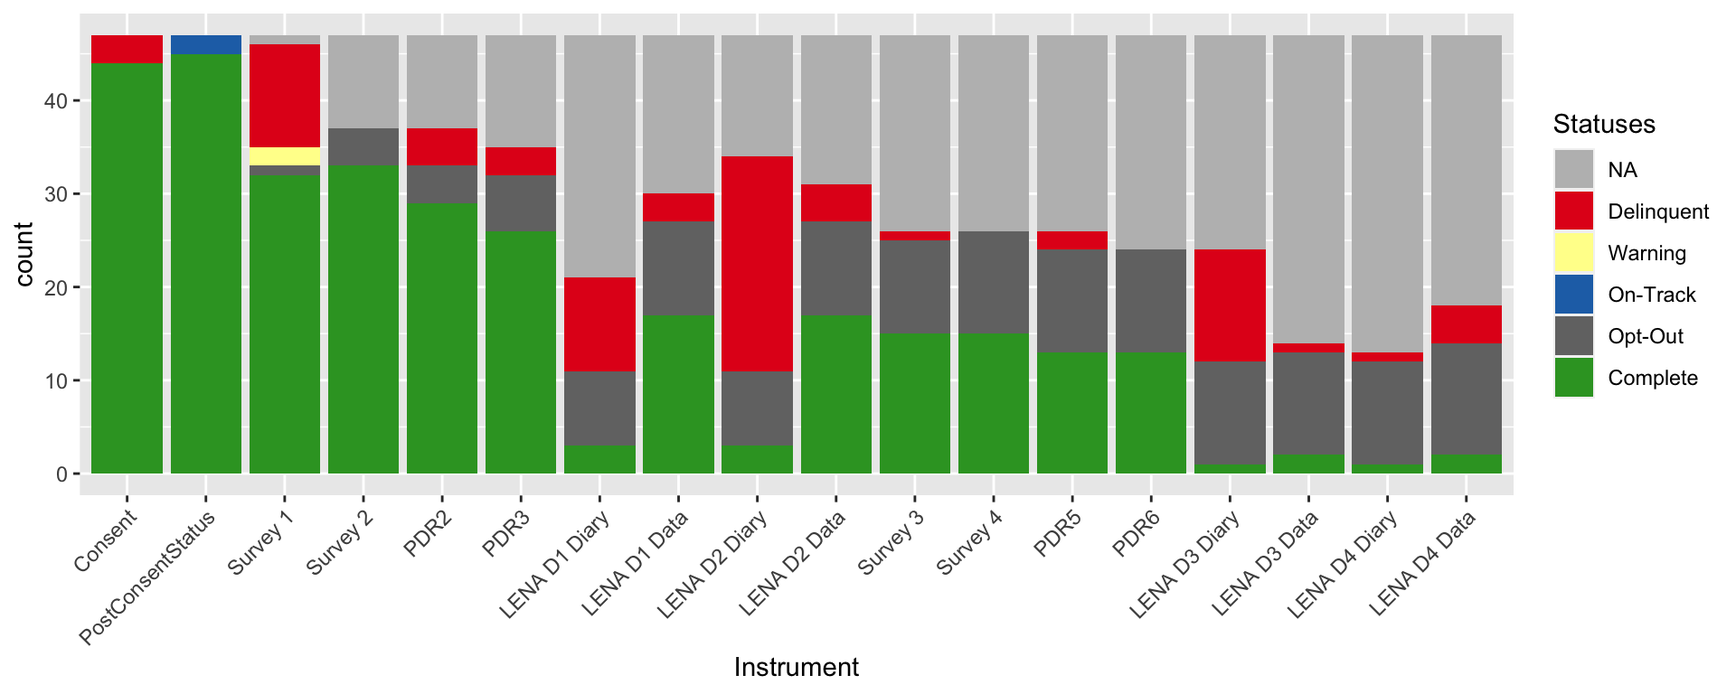
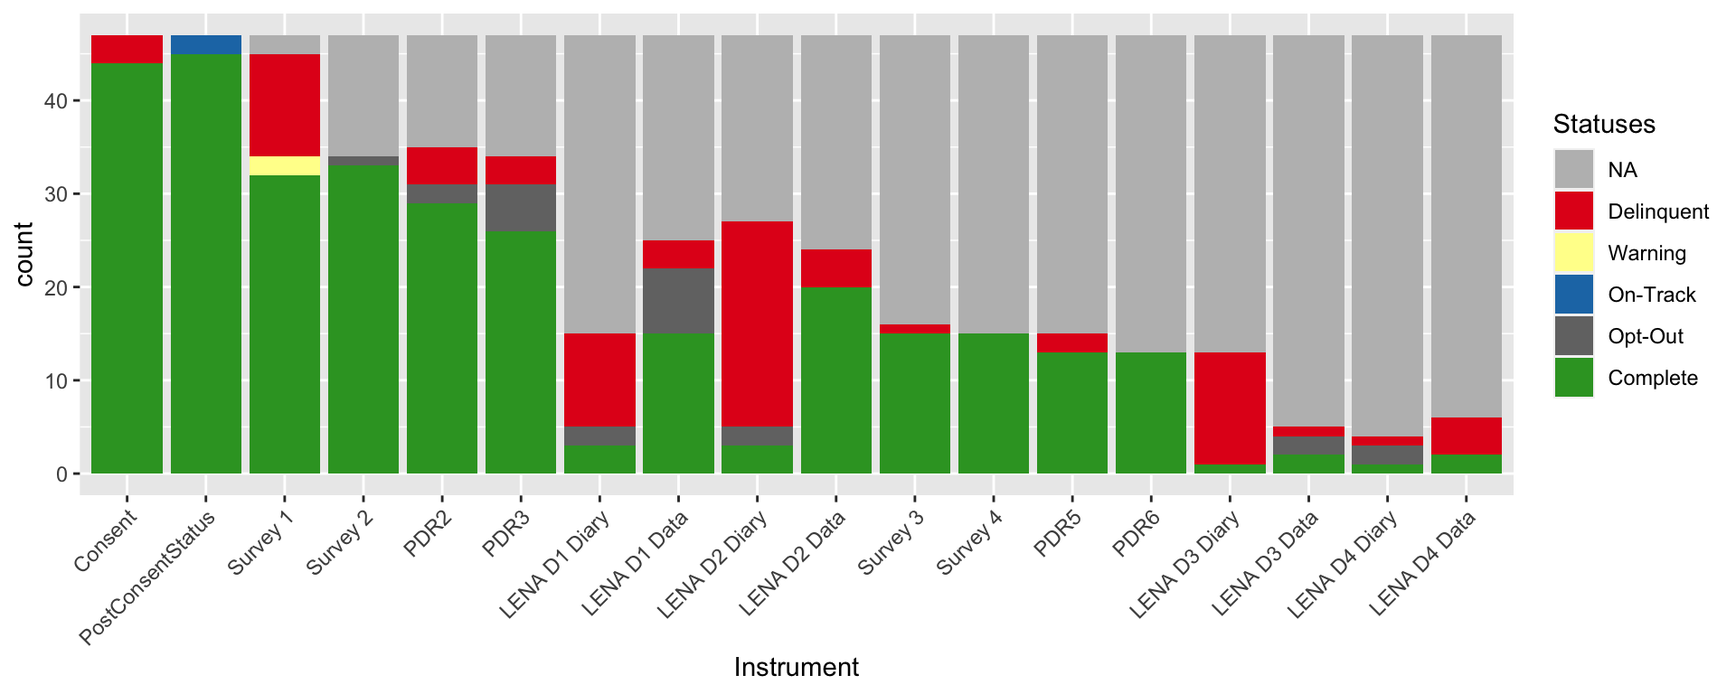
Update charts with current data--warning not valid

diff --git a/_site/reports.html b/_site/reports.html
@@ -398,8 +398,8 @@ $(document).ready(function () {
 
 </div>
 <center>
-<div id="htmlwidget-2e17466358a46d139971" style="width:960px;height:384px;" class="plotly html-widget"></div>
-<script type="application/json" data-for="htmlwidget-2e17466358a46d139971">{"x":{"data":[{"x":[1594210295,1595855440,1595947129,1596636699,1597147658,1597190400,1597276800,1597402867,1598436608,1598538979,1598541299,1598955066,1599570320,1600250194,1600255992,1600300800,1600355481,1600387200,1600863340,1601302221,1601566658,1602239005,1603368728,1603379955,1603670400,1603977413,1604491899,1604751373,1605089156,1605179257,1605721538,1605872792,1607040000,1607472000,1607644800,1607687486,1609891200,1609897301,1611187200,1611878400,1612396800,1612396800,1612396800,1611878400,1611187200,1609897301,1609891200,1607687486,1607644800,1607472000,1607040000,1605872792,1605721538,1605179257,1605089156,1604751373,1604491899,1603977413,1603670400,1603379955,1603368728,1602239005,1601566658,1601302221,1600863340,1600387200,1600355481,1600300800,1600255992,1600250194,1599570320,1598955066,1598541299,1598538979,1598436608,1597402867,1597276800,1597190400,1597147658,1596636699,1595947129,1595855440,1594210295,1594210295],"y":[0,0,0,0,0,0,0,0,0,0,0,0,0,0,0,0,0,0,0,0,0,0,0,0,0,0,0,0,0,0,0,0,0,0,0,0,0,0,0,0,0,0,42,41,40,39,38,37,36,35,34,33,32,31,30,29,28,27,26,25,24,23,22,21,20,19,18,17,16,15,14,13,12,11,10,9,8,6,5,4,3,2,1,0],"text":["InformedConsent: 2020-07-08 19:11:35<br />Cumulative:  1","InformedConsent: 2020-07-27 20:10:40<br />Cumulative:  2","InformedConsent: 2020-07-28 21:38:49<br />Cumulative:  3","InformedConsent: 2020-08-05 21:11:39<br />Cumulative:  4","InformedConsent: 2020-08-11 19:07:38<br />Cumulative:  5","InformedConsent: 2020-08-12 07:00:00<br />Cumulative:  6","InformedConsent: 2020-08-13 07:00:00<br />Cumulative:  8","InformedConsent: 2020-08-14 18:01:07<br />Cumulative:  9","InformedConsent: 2020-08-26 17:10:08<br />Cumulative: 10","InformedConsent: 2020-08-27 21:36:19<br />Cumulative: 11","InformedConsent: 2020-08-27 22:14:59<br />Cumulative: 12","InformedConsent: 2020-09-01 17:11:06<br />Cumulative: 13","InformedConsent: 2020-09-08 20:05:20<br />Cumulative: 14","InformedConsent: 2020-09-16 16:56:34<br />Cumulative: 15","InformedConsent: 2020-09-16 18:33:12<br />Cumulative: 16","InformedConsent: 2020-09-17 07:00:00<br />Cumulative: 17","InformedConsent: 2020-09-17 22:11:21<br />Cumulative: 18","InformedConsent: 2020-09-18 07:00:00<br />Cumulative: 19","InformedConsent: 2020-09-23 19:15:40<br />Cumulative: 20","InformedConsent: 2020-09-28 21:10:21<br />Cumulative: 21","InformedConsent: 2020-10-01 22:37:38<br />Cumulative: 22","InformedConsent: 2020-10-09 17:23:25<br />Cumulative: 23","InformedConsent: 2020-10-22 19:12:08<br />Cumulative: 24","InformedConsent: 2020-10-22 22:19:15<br />Cumulative: 25","InformedConsent: 2020-10-26 07:00:00<br />Cumulative: 26","InformedConsent: 2020-10-29 20:16:53<br />Cumulative: 27","InformedConsent: 2020-11-04 20:11:39<br />Cumulative: 28","InformedConsent: 2020-11-07 20:16:13<br />Cumulative: 29","InformedConsent: 2020-11-11 18:05:56<br />Cumulative: 30","InformedConsent: 2020-11-12 19:07:37<br />Cumulative: 31","InformedConsent: 2020-11-19 01:45:38<br />Cumulative: 32","InformedConsent: 2020-11-20 19:46:32<br />Cumulative: 33","InformedConsent: 2020-12-04 08:00:00<br />Cumulative: 34","InformedConsent: 2020-12-09 08:00:00<br />Cumulative: 35","InformedConsent: 2020-12-11 08:00:00<br />Cumulative: 36","InformedConsent: 2020-12-11 19:51:26<br />Cumulative: 37","InformedConsent: 2021-01-06 08:00:00<br />Cumulative: 38","InformedConsent: 2021-01-06 09:41:41<br />Cumulative: 39","InformedConsent: 2021-01-21 08:00:00<br />Cumulative: 40","InformedConsent: 2021-01-29 08:00:00<br />Cumulative: 41","InformedConsent: 2021-02-04 08:00:00<br />Cumulative: 42","InformedConsent: 2021-02-04 08:00:00<br />Cumulative: 42","InformedConsent: 2021-02-04 08:00:00<br />Cumulative: 42","InformedConsent: 2021-01-29 08:00:00<br />Cumulative: 41","InformedConsent: 2021-01-21 08:00:00<br />Cumulative: 40","InformedConsent: 2021-01-06 09:41:41<br />Cumulative: 39","InformedConsent: 2021-01-06 08:00:00<br />Cumulative: 38","InformedConsent: 2020-12-11 19:51:26<br />Cumulative: 37","InformedConsent: 2020-12-11 08:00:00<br />Cumulative: 36","InformedConsent: 2020-12-09 08:00:00<br />Cumulative: 35","InformedConsent: 2020-12-04 08:00:00<br />Cumulative: 34","InformedConsent: 2020-11-20 19:46:32<br />Cumulative: 33","InformedConsent: 2020-11-19 01:45:38<br />Cumulative: 32","InformedConsent: 2020-11-12 19:07:37<br />Cumulative: 31","InformedConsent: 2020-11-11 18:05:56<br />Cumulative: 30","InformedConsent: 2020-11-07 20:16:13<br />Cumulative: 29","InformedConsent: 2020-11-04 20:11:39<br />Cumulative: 28","InformedConsent: 2020-10-29 20:16:53<br />Cumulative: 27","InformedConsent: 2020-10-26 07:00:00<br />Cumulative: 26","InformedConsent: 2020-10-22 22:19:15<br />Cumulative: 25","InformedConsent: 2020-10-22 19:12:08<br />Cumulative: 24","InformedConsent: 2020-10-09 17:23:25<br />Cumulative: 23","InformedConsent: 2020-10-01 22:37:38<br />Cumulative: 22","InformedConsent: 2020-09-28 21:10:21<br />Cumulative: 21","InformedConsent: 2020-09-23 19:15:40<br />Cumulative: 20","InformedConsent: 2020-09-18 07:00:00<br />Cumulative: 19","InformedConsent: 2020-09-17 22:11:21<br />Cumulative: 18","InformedConsent: 2020-09-17 07:00:00<br />Cumulative: 17","InformedConsent: 2020-09-16 18:33:12<br />Cumulative: 16","InformedConsent: 2020-09-16 16:56:34<br />Cumulative: 15","InformedConsent: 2020-09-08 20:05:20<br />Cumulative: 14","InformedConsent: 2020-09-01 17:11:06<br />Cumulative: 13","InformedConsent: 2020-08-27 22:14:59<br />Cumulative: 12","InformedConsent: 2020-08-27 21:36:19<br />Cumulative: 11","InformedConsent: 2020-08-26 17:10:08<br />Cumulative: 10","InformedConsent: 2020-08-14 18:01:07<br />Cumulative:  9","InformedConsent: 2020-08-13 07:00:00<br />Cumulative:  8","InformedConsent: 2020-08-12 07:00:00<br />Cumulative:  6","InformedConsent: 2020-08-11 19:07:38<br />Cumulative:  5","InformedConsent: 2020-08-05 21:11:39<br />Cumulative:  4","InformedConsent: 2020-07-28 21:38:49<br />Cumulative:  3","InformedConsent: 2020-07-27 20:10:40<br />Cumulative:  2","InformedConsent: 2020-07-08 19:11:35<br />Cumulative:  1","InformedConsent: 2020-07-08 19:11:35<br />Cumulative:  1"],"type":"scatter","mode":"lines","line":{"width":1.88976377952756,"color":"transparent","dash":"solid"},"fill":"toself","fillcolor":"rgba(105,179,162,0.5)","hoveron":"points","showlegend":false,"xaxis":"x","yaxis":"y","hoverinfo":"text","frame":null},{"x":[1594210295,1595855440,1595947129,1596636699,1597147658,1597190400,1597276800,1597402867,1598436608,1598538979,1598541299,1598955066,1599570320,1600250194,1600255992,1600300800,1600355481,1600387200,1600863340,1601302221,1601566658,1602239005,1603368728,1603379955,1603670400,1603977413,1604491899,1604751373,1605089156,1605179257,1605721538,1605872792,1607040000,1607472000,1607644800,1607687486,1609891200,1609897301,1611187200,1611878400,1612396800,null],"y":[1,2,3,4,5,6,8,9,10,11,12,13,14,15,16,17,18,19,20,21,22,23,24,25,26,27,28,29,30,31,32,33,34,35,36,37,38,39,40,41,42,48],"text":["InformedConsent: 2020-07-08 12:11:35<br />Cumulative:  1","InformedConsent: 2020-07-27 13:10:40<br />Cumulative:  2","InformedConsent: 2020-07-28 14:38:49<br />Cumulative:  3","InformedConsent: 2020-08-05 14:11:39<br />Cumulative:  4","InformedConsent: 2020-08-11 12:07:38<br />Cumulative:  5","InformedConsent: 2020-08-12 00:00:00<br />Cumulative:  6","InformedConsent: 2020-08-13 00:00:00<br />Cumulative:  8","InformedConsent: 2020-08-14 11:01:07<br />Cumulative:  9","InformedConsent: 2020-08-26 10:10:08<br />Cumulative: 10","InformedConsent: 2020-08-27 14:36:19<br />Cumulative: 11","InformedConsent: 2020-08-27 15:14:59<br />Cumulative: 12","InformedConsent: 2020-09-01 10:11:06<br />Cumulative: 13","InformedConsent: 2020-09-08 13:05:20<br />Cumulative: 14","InformedConsent: 2020-09-16 09:56:34<br />Cumulative: 15","InformedConsent: 2020-09-16 11:33:12<br />Cumulative: 16","InformedConsent: 2020-09-17 00:00:00<br />Cumulative: 17","InformedConsent: 2020-09-17 15:11:21<br />Cumulative: 18","InformedConsent: 2020-09-18 00:00:00<br />Cumulative: 19","InformedConsent: 2020-09-23 12:15:40<br />Cumulative: 20","InformedConsent: 2020-09-28 14:10:21<br />Cumulative: 21","InformedConsent: 2020-10-01 15:37:38<br />Cumulative: 22","InformedConsent: 2020-10-09 10:23:25<br />Cumulative: 23","InformedConsent: 2020-10-22 12:12:08<br />Cumulative: 24","InformedConsent: 2020-10-22 15:19:15<br />Cumulative: 25","InformedConsent: 2020-10-26 00:00:00<br />Cumulative: 26","InformedConsent: 2020-10-29 13:16:53<br />Cumulative: 27","InformedConsent: 2020-11-04 12:11:39<br />Cumulative: 28","InformedConsent: 2020-11-07 12:16:13<br />Cumulative: 29","InformedConsent: 2020-11-11 10:05:56<br />Cumulative: 30","InformedConsent: 2020-11-12 11:07:37<br />Cumulative: 31","InformedConsent: 2020-11-18 17:45:38<br />Cumulative: 32","InformedConsent: 2020-11-20 11:46:32<br />Cumulative: 33","InformedConsent: 2020-12-04 00:00:00<br />Cumulative: 34","InformedConsent: 2020-12-09 00:00:00<br />Cumulative: 35","InformedConsent: 2020-12-11 00:00:00<br />Cumulative: 36","InformedConsent: 2020-12-11 11:51:26<br />Cumulative: 37","InformedConsent: 2021-01-06 00:00:00<br />Cumulative: 38","InformedConsent: 2021-01-06 01:41:41<br />Cumulative: 39","InformedConsent: 2021-01-21 00:00:00<br />Cumulative: 40","InformedConsent: 2021-01-29 00:00:00<br />Cumulative: 41","InformedConsent: 2021-02-04 00:00:00<br />Cumulative: 42","InformedConsent: NA<br />Cumulative: 48"],"type":"scatter","mode":"lines","line":{"width":1.88976377952756,"color":"rgba(105,179,162,1)","dash":"solid"},"hoveron":"points","showlegend":false,"xaxis":"x","yaxis":"y","hoverinfo":"text","frame":null}],"layout":{"margin":{"t":65.813200498132,"r":39.8505603985056,"b":80.8634288086343,"l":70.9007887090079},"font":{"color":"rgba(0,0,0,1)","family":"Arial Narrow","size":15.2760481527605},"xaxis":{"domain":[0,1],"automargin":true,"type":"linear","autorange":false,"range":[1593300969.75,1613306125.25],"tickmode":"array","ticktext":["Jul","Oct","Jan"],"tickvals":[1593561600,1601510400,1609459200],"categoryorder":"array","categoryarray":["Jul","Oct","Jan"],"nticks":null,"ticks":"","tickcolor":null,"ticklen":3.81901203819012,"tickwidth":0,"showticklabels":true,"tickfont":{"color":"rgba(77,77,77,1)","family":"Arial Narrow","size":15.2760481527605},"tickangle":-0,"showline":false,"linecolor":null,"linewidth":0,"showgrid":true,"gridcolor":"rgba(204,204,204,1)","gridwidth":0.265670402656704,"zeroline":false,"anchor":"y","title":{"text":"Time","font":{"color":"rgba(0,0,0,1)","family":"Arial Narrow","size":11.9551681195517}},"hoverformat":".2f"},"yaxis":{"domain":[0,1],"automargin":true,"type":"linear","autorange":false,"range":[-2.4,50.4],"tickmode":"array","ticktext":["0","10","20","30","40","50"],"tickvals":[0,10,20,30,40,50],"categoryorder":"array","categoryarray":["0","10","20","30","40","50"],"nticks":null,"ticks":"","tickcolor":null,"ticklen":3.81901203819012,"tickwidth":0,"showticklabels":true,"tickfont":{"color":"rgba(77,77,77,1)","family":"Arial Narrow","size":15.2760481527605},"tickangle":-0,"showline":false,"linecolor":null,"linewidth":0,"showgrid":true,"gridcolor":"rgba(204,204,204,1)","gridwidth":0.265670402656704,"zeroline":false,"anchor":"x","title":{"text":"Dyad Count","font":{"color":"rgba(0,0,0,1)","family":"Arial Narrow","size":11.9551681195517}},"hoverformat":".2f"},"shapes":[{"type":"rect","fillcolor":null,"line":{"color":null,"width":0,"linetype":[]},"yref":"paper","xref":"paper","x0":0,"x1":1,"y0":0,"y1":1}],"showlegend":false,"legend":{"bgcolor":null,"bordercolor":null,"borderwidth":0,"font":{"color":"rgba(0,0,0,1)","family":"Arial Narrow","size":12.2208385222084}},"hovermode":"closest","barmode":"relative"},"config":{"doubleClick":"reset","showSendToCloud":false},"source":"A","attrs":{"912116bcb142":{"x":{},"y":{},"type":"scatter"},"91213e196fb7":{"x":{},"y":{}}},"cur_data":"912116bcb142","visdat":{"912116bcb142":["function (y) ","x"],"91213e196fb7":["function (y) ","x"]},"highlight":{"on":"plotly_click","persistent":false,"dynamic":false,"selectize":false,"opacityDim":0.2,"selected":{"opacity":1},"debounce":0},"shinyEvents":["plotly_hover","plotly_click","plotly_selected","plotly_relayout","plotly_brushed","plotly_brushing","plotly_clickannotation","plotly_doubleclick","plotly_deselect","plotly_afterplot","plotly_sunburstclick"],"base_url":"https://plot.ly"},"evals":[],"jsHooks":[]}</script><img src="reports_files/figure-html/SEAL%20Conditions%20Plot-2.png" width="960" />
+<div id="htmlwidget-64dbf7ed44db75815197" style="width:960px;height:384px;" class="plotly html-widget"></div>
+<script type="application/json" data-for="htmlwidget-64dbf7ed44db75815197">{"x":{"data":[{"x":[1594210295,1595855440,1595947129,1596636699,1597147658,1597190400,1597276800,1597402867,1598436608,1598538979,1598541299,1598955066,1599570320,1600250194,1600255992,1600300800,1600355481,1600387200,1600863340,1601302221,1601566658,1602239005,1603368728,1603379955,1603670400,1603977413,1604491899,1604751373,1605089156,1605179257,1605721538,1605872792,1607040000,1607472000,1607644800,1607687486,1609891200,1609897301,1611187200,1611878400,1612396800,1612396800,1612396800,1611878400,1611187200,1609897301,1609891200,1607687486,1607644800,1607472000,1607040000,1605872792,1605721538,1605179257,1605089156,1604751373,1604491899,1603977413,1603670400,1603379955,1603368728,1602239005,1601566658,1601302221,1600863340,1600387200,1600355481,1600300800,1600255992,1600250194,1599570320,1598955066,1598541299,1598538979,1598436608,1597402867,1597276800,1597190400,1597147658,1596636699,1595947129,1595855440,1594210295,1594210295],"y":[0,0,0,0,0,0,0,0,0,0,0,0,0,0,0,0,0,0,0,0,0,0,0,0,0,0,0,0,0,0,0,0,0,0,0,0,0,0,0,0,0,0,42,41,40,39,38,37,36,35,34,33,32,31,30,29,28,27,26,25,24,23,22,21,20,19,18,17,16,15,14,13,12,11,10,9,8,6,5,4,3,2,1,0],"text":["InformedConsent: 2020-07-08 19:11:35<br />Cumulative:  1","InformedConsent: 2020-07-27 20:10:40<br />Cumulative:  2","InformedConsent: 2020-07-28 21:38:49<br />Cumulative:  3","InformedConsent: 2020-08-05 21:11:39<br />Cumulative:  4","InformedConsent: 2020-08-11 19:07:38<br />Cumulative:  5","InformedConsent: 2020-08-12 07:00:00<br />Cumulative:  6","InformedConsent: 2020-08-13 07:00:00<br />Cumulative:  8","InformedConsent: 2020-08-14 18:01:07<br />Cumulative:  9","InformedConsent: 2020-08-26 17:10:08<br />Cumulative: 10","InformedConsent: 2020-08-27 21:36:19<br />Cumulative: 11","InformedConsent: 2020-08-27 22:14:59<br />Cumulative: 12","InformedConsent: 2020-09-01 17:11:06<br />Cumulative: 13","InformedConsent: 2020-09-08 20:05:20<br />Cumulative: 14","InformedConsent: 2020-09-16 16:56:34<br />Cumulative: 15","InformedConsent: 2020-09-16 18:33:12<br />Cumulative: 16","InformedConsent: 2020-09-17 07:00:00<br />Cumulative: 17","InformedConsent: 2020-09-17 22:11:21<br />Cumulative: 18","InformedConsent: 2020-09-18 07:00:00<br />Cumulative: 19","InformedConsent: 2020-09-23 19:15:40<br />Cumulative: 20","InformedConsent: 2020-09-28 21:10:21<br />Cumulative: 21","InformedConsent: 2020-10-01 22:37:38<br />Cumulative: 22","InformedConsent: 2020-10-09 17:23:25<br />Cumulative: 23","InformedConsent: 2020-10-22 19:12:08<br />Cumulative: 24","InformedConsent: 2020-10-22 22:19:15<br />Cumulative: 25","InformedConsent: 2020-10-26 07:00:00<br />Cumulative: 26","InformedConsent: 2020-10-29 20:16:53<br />Cumulative: 27","InformedConsent: 2020-11-04 20:11:39<br />Cumulative: 28","InformedConsent: 2020-11-07 20:16:13<br />Cumulative: 29","InformedConsent: 2020-11-11 18:05:56<br />Cumulative: 30","InformedConsent: 2020-11-12 19:07:37<br />Cumulative: 31","InformedConsent: 2020-11-19 01:45:38<br />Cumulative: 32","InformedConsent: 2020-11-20 19:46:32<br />Cumulative: 33","InformedConsent: 2020-12-04 08:00:00<br />Cumulative: 34","InformedConsent: 2020-12-09 08:00:00<br />Cumulative: 35","InformedConsent: 2020-12-11 08:00:00<br />Cumulative: 36","InformedConsent: 2020-12-11 19:51:26<br />Cumulative: 37","InformedConsent: 2021-01-06 08:00:00<br />Cumulative: 38","InformedConsent: 2021-01-06 09:41:41<br />Cumulative: 39","InformedConsent: 2021-01-21 08:00:00<br />Cumulative: 40","InformedConsent: 2021-01-29 08:00:00<br />Cumulative: 41","InformedConsent: 2021-02-04 08:00:00<br />Cumulative: 42","InformedConsent: 2021-02-04 08:00:00<br />Cumulative: 42","InformedConsent: 2021-02-04 08:00:00<br />Cumulative: 42","InformedConsent: 2021-01-29 08:00:00<br />Cumulative: 41","InformedConsent: 2021-01-21 08:00:00<br />Cumulative: 40","InformedConsent: 2021-01-06 09:41:41<br />Cumulative: 39","InformedConsent: 2021-01-06 08:00:00<br />Cumulative: 38","InformedConsent: 2020-12-11 19:51:26<br />Cumulative: 37","InformedConsent: 2020-12-11 08:00:00<br />Cumulative: 36","InformedConsent: 2020-12-09 08:00:00<br />Cumulative: 35","InformedConsent: 2020-12-04 08:00:00<br />Cumulative: 34","InformedConsent: 2020-11-20 19:46:32<br />Cumulative: 33","InformedConsent: 2020-11-19 01:45:38<br />Cumulative: 32","InformedConsent: 2020-11-12 19:07:37<br />Cumulative: 31","InformedConsent: 2020-11-11 18:05:56<br />Cumulative: 30","InformedConsent: 2020-11-07 20:16:13<br />Cumulative: 29","InformedConsent: 2020-11-04 20:11:39<br />Cumulative: 28","InformedConsent: 2020-10-29 20:16:53<br />Cumulative: 27","InformedConsent: 2020-10-26 07:00:00<br />Cumulative: 26","InformedConsent: 2020-10-22 22:19:15<br />Cumulative: 25","InformedConsent: 2020-10-22 19:12:08<br />Cumulative: 24","InformedConsent: 2020-10-09 17:23:25<br />Cumulative: 23","InformedConsent: 2020-10-01 22:37:38<br />Cumulative: 22","InformedConsent: 2020-09-28 21:10:21<br />Cumulative: 21","InformedConsent: 2020-09-23 19:15:40<br />Cumulative: 20","InformedConsent: 2020-09-18 07:00:00<br />Cumulative: 19","InformedConsent: 2020-09-17 22:11:21<br />Cumulative: 18","InformedConsent: 2020-09-17 07:00:00<br />Cumulative: 17","InformedConsent: 2020-09-16 18:33:12<br />Cumulative: 16","InformedConsent: 2020-09-16 16:56:34<br />Cumulative: 15","InformedConsent: 2020-09-08 20:05:20<br />Cumulative: 14","InformedConsent: 2020-09-01 17:11:06<br />Cumulative: 13","InformedConsent: 2020-08-27 22:14:59<br />Cumulative: 12","InformedConsent: 2020-08-27 21:36:19<br />Cumulative: 11","InformedConsent: 2020-08-26 17:10:08<br />Cumulative: 10","InformedConsent: 2020-08-14 18:01:07<br />Cumulative:  9","InformedConsent: 2020-08-13 07:00:00<br />Cumulative:  8","InformedConsent: 2020-08-12 07:00:00<br />Cumulative:  6","InformedConsent: 2020-08-11 19:07:38<br />Cumulative:  5","InformedConsent: 2020-08-05 21:11:39<br />Cumulative:  4","InformedConsent: 2020-07-28 21:38:49<br />Cumulative:  3","InformedConsent: 2020-07-27 20:10:40<br />Cumulative:  2","InformedConsent: 2020-07-08 19:11:35<br />Cumulative:  1","InformedConsent: 2020-07-08 19:11:35<br />Cumulative:  1"],"type":"scatter","mode":"lines","line":{"width":1.88976377952756,"color":"transparent","dash":"solid"},"fill":"toself","fillcolor":"rgba(105,179,162,0.5)","hoveron":"points","showlegend":false,"xaxis":"x","yaxis":"y","hoverinfo":"text","frame":null},{"x":[1594210295,1595855440,1595947129,1596636699,1597147658,1597190400,1597276800,1597402867,1598436608,1598538979,1598541299,1598955066,1599570320,1600250194,1600255992,1600300800,1600355481,1600387200,1600863340,1601302221,1601566658,1602239005,1603368728,1603379955,1603670400,1603977413,1604491899,1604751373,1605089156,1605179257,1605721538,1605872792,1607040000,1607472000,1607644800,1607687486,1609891200,1609897301,1611187200,1611878400,1612396800,null],"y":[1,2,3,4,5,6,8,9,10,11,12,13,14,15,16,17,18,19,20,21,22,23,24,25,26,27,28,29,30,31,32,33,34,35,36,37,38,39,40,41,42,48],"text":["InformedConsent: 2020-07-08 12:11:35<br />Cumulative:  1","InformedConsent: 2020-07-27 13:10:40<br />Cumulative:  2","InformedConsent: 2020-07-28 14:38:49<br />Cumulative:  3","InformedConsent: 2020-08-05 14:11:39<br />Cumulative:  4","InformedConsent: 2020-08-11 12:07:38<br />Cumulative:  5","InformedConsent: 2020-08-12 00:00:00<br />Cumulative:  6","InformedConsent: 2020-08-13 00:00:00<br />Cumulative:  8","InformedConsent: 2020-08-14 11:01:07<br />Cumulative:  9","InformedConsent: 2020-08-26 10:10:08<br />Cumulative: 10","InformedConsent: 2020-08-27 14:36:19<br />Cumulative: 11","InformedConsent: 2020-08-27 15:14:59<br />Cumulative: 12","InformedConsent: 2020-09-01 10:11:06<br />Cumulative: 13","InformedConsent: 2020-09-08 13:05:20<br />Cumulative: 14","InformedConsent: 2020-09-16 09:56:34<br />Cumulative: 15","InformedConsent: 2020-09-16 11:33:12<br />Cumulative: 16","InformedConsent: 2020-09-17 00:00:00<br />Cumulative: 17","InformedConsent: 2020-09-17 15:11:21<br />Cumulative: 18","InformedConsent: 2020-09-18 00:00:00<br />Cumulative: 19","InformedConsent: 2020-09-23 12:15:40<br />Cumulative: 20","InformedConsent: 2020-09-28 14:10:21<br />Cumulative: 21","InformedConsent: 2020-10-01 15:37:38<br />Cumulative: 22","InformedConsent: 2020-10-09 10:23:25<br />Cumulative: 23","InformedConsent: 2020-10-22 12:12:08<br />Cumulative: 24","InformedConsent: 2020-10-22 15:19:15<br />Cumulative: 25","InformedConsent: 2020-10-26 00:00:00<br />Cumulative: 26","InformedConsent: 2020-10-29 13:16:53<br />Cumulative: 27","InformedConsent: 2020-11-04 12:11:39<br />Cumulative: 28","InformedConsent: 2020-11-07 12:16:13<br />Cumulative: 29","InformedConsent: 2020-11-11 10:05:56<br />Cumulative: 30","InformedConsent: 2020-11-12 11:07:37<br />Cumulative: 31","InformedConsent: 2020-11-18 17:45:38<br />Cumulative: 32","InformedConsent: 2020-11-20 11:46:32<br />Cumulative: 33","InformedConsent: 2020-12-04 00:00:00<br />Cumulative: 34","InformedConsent: 2020-12-09 00:00:00<br />Cumulative: 35","InformedConsent: 2020-12-11 00:00:00<br />Cumulative: 36","InformedConsent: 2020-12-11 11:51:26<br />Cumulative: 37","InformedConsent: 2021-01-06 00:00:00<br />Cumulative: 38","InformedConsent: 2021-01-06 01:41:41<br />Cumulative: 39","InformedConsent: 2021-01-21 00:00:00<br />Cumulative: 40","InformedConsent: 2021-01-29 00:00:00<br />Cumulative: 41","InformedConsent: 2021-02-04 00:00:00<br />Cumulative: 42","InformedConsent: NA<br />Cumulative: 48"],"type":"scatter","mode":"lines","line":{"width":1.88976377952756,"color":"rgba(105,179,162,1)","dash":"solid"},"hoveron":"points","showlegend":false,"xaxis":"x","yaxis":"y","hoverinfo":"text","frame":null}],"layout":{"margin":{"t":65.813200498132,"r":39.8505603985056,"b":80.8634288086343,"l":70.9007887090079},"font":{"color":"rgba(0,0,0,1)","family":"Arial Narrow","size":15.2760481527605},"xaxis":{"domain":[0,1],"automargin":true,"type":"linear","autorange":false,"range":[1593300969.75,1613306125.25],"tickmode":"array","ticktext":["Jul","Oct","Jan"],"tickvals":[1593561600,1601510400,1609459200],"categoryorder":"array","categoryarray":["Jul","Oct","Jan"],"nticks":null,"ticks":"","tickcolor":null,"ticklen":3.81901203819012,"tickwidth":0,"showticklabels":true,"tickfont":{"color":"rgba(77,77,77,1)","family":"Arial Narrow","size":15.2760481527605},"tickangle":-0,"showline":false,"linecolor":null,"linewidth":0,"showgrid":true,"gridcolor":"rgba(204,204,204,1)","gridwidth":0.265670402656704,"zeroline":false,"anchor":"y","title":{"text":"Time","font":{"color":"rgba(0,0,0,1)","family":"Arial Narrow","size":11.9551681195517}},"hoverformat":".2f"},"yaxis":{"domain":[0,1],"automargin":true,"type":"linear","autorange":false,"range":[-2.4,50.4],"tickmode":"array","ticktext":["0","10","20","30","40","50"],"tickvals":[0,10,20,30,40,50],"categoryorder":"array","categoryarray":["0","10","20","30","40","50"],"nticks":null,"ticks":"","tickcolor":null,"ticklen":3.81901203819012,"tickwidth":0,"showticklabels":true,"tickfont":{"color":"rgba(77,77,77,1)","family":"Arial Narrow","size":15.2760481527605},"tickangle":-0,"showline":false,"linecolor":null,"linewidth":0,"showgrid":true,"gridcolor":"rgba(204,204,204,1)","gridwidth":0.265670402656704,"zeroline":false,"anchor":"x","title":{"text":"Dyad Count","font":{"color":"rgba(0,0,0,1)","family":"Arial Narrow","size":11.9551681195517}},"hoverformat":".2f"},"shapes":[{"type":"rect","fillcolor":null,"line":{"color":null,"width":0,"linetype":[]},"yref":"paper","xref":"paper","x0":0,"x1":1,"y0":0,"y1":1}],"showlegend":false,"legend":{"bgcolor":null,"bordercolor":null,"borderwidth":0,"font":{"color":"rgba(0,0,0,1)","family":"Arial Narrow","size":12.2208385222084}},"hovermode":"closest","barmode":"relative"},"config":{"doubleClick":"reset","showSendToCloud":false},"source":"A","attrs":{"b52856394f9a":{"x":{},"y":{},"type":"scatter"},"b5284c9933af":{"x":{},"y":{}}},"cur_data":"b52856394f9a","visdat":{"b52856394f9a":["function (y) ","x"],"b5284c9933af":["function (y) ","x"]},"highlight":{"on":"plotly_click","persistent":false,"dynamic":false,"selectize":false,"opacityDim":0.2,"selected":{"opacity":1},"debounce":0},"shinyEvents":["plotly_hover","plotly_click","plotly_selected","plotly_relayout","plotly_brushed","plotly_brushing","plotly_clickannotation","plotly_doubleclick","plotly_deselect","plotly_afterplot","plotly_sunburstclick"],"base_url":"https://plot.ly"},"evals":[],"jsHooks":[]}</script><img src="reports_files/figure-html/SEAL%20Conditions%20Plot-2.png" width="960" />
 <center>
 <div>
 

diff --git a/_site/enrollment.html b/_site/enrollment.html
@@ -380,7 +380,7 @@ $(document).ready(function () {
 
 <h1 class="title toc-ignore">Current Enrollment</h1>
 <h4 class="author"></h4>
-<h4 class="date">Last Updated: 2/19/2021</h4>
+<h4 class="date">Last Updated: 2/23/2021</h4>
 
 </div>
 
@@ -411,7 +411,7 @@ $(document).ready(function () {
 <a href="#" class="btn btn-primary"><strong>Wave 1 Complete</strong><br>3</a>
 </div>
 <div class="btn-group">
-<a href="#" class="btn btn-primary"><strong>Wave 1 In Progress</strong><br>26</a>
+<a href="#" class="btn btn-primary"><strong>Wave 1 In Progress</strong><br>30</a>
 </div>
 <div class="btn-group">
 <a href="#" class="btn btn-primary"><strong>Wave 1 Drop-Outs</strong><br> 9 </a>
@@ -422,7 +422,7 @@ $(document).ready(function () {
 <a href="#" class="btn btn-success"><strong>Intervention Complete</strong><br>14</a>
 </div>
 <div class="btn-group">
-<a href="#" class="btn btn-success"><strong>Intervention In Progress</strong><br>1</a>
+<a href="#" class="btn btn-success"><strong>Intervention In Progress</strong><br>2</a>
 </div>
 <div class="btn-group">
 <a href="#" class="btn btn-success"><strong>Intervention Drop-Outs</strong><br>2 </a>
@@ -430,10 +430,10 @@ $(document).ready(function () {
 </div>
 <div class="btn-group btn-group-justified">
 <div class="btn-group">
-<a href="#" class="btn btn-info"><strong>Wave 2 Complete</strong><br>1</a>
+<a href="#" class="btn btn-info"><strong>Wave 2 Complete</strong><br>3</a>
 </div>
 <div class="btn-group">
-<a href="#" class="btn btn-info"><strong>Wave 2 In Progress</strong><br>12</a>
+<a href="#" class="btn btn-info"><strong>Wave 2 In Progress</strong><br>11</a>
 </div>
 <div class="btn-group">
 <a href="#" class="btn btn-info"><strong>Wave 2 Drop-Outs</strong><br>0 </a>
@@ -444,7 +444,7 @@ $(document).ready(function () {
 <a href="#" class="btn btn-warning"><strong>Wave 3 Complete</strong><br>TBD</a>
 </div>
 <div class="btn-group">
-<a href="#" class="btn btn-warning"><strong>Wave 3 In Progress</strong><br>1</a>
+<a href="#" class="btn btn-warning"><strong>Wave 3 In Progress</strong><br>3</a>
 </div>
 <div class="btn-group">
 <a href="#" class="btn btn-warning"><strong>Wave 3 Drop-Outs</strong><br>0 </a>
@@ -455,7 +455,7 @@ $(document).ready(function () {
 <a href="#" class="btn btn-danger"><strong>Total Complete with Study</strong><br>TBD</a>
 </div>
 <div class="btn-group">
-<a href="#" class="btn btn-danger"><strong>Total In Progress</strong><br> 40 </a>
+<a href="#" class="btn btn-danger"><strong>Total In Progress</strong><br> 46 </a>
 </div>
 <div class="btn-group">
 <a href="#" class="btn btn-danger"><strong>Total Drop-Outs</strong><br>11</a>
@@ -522,7 +522,7 @@ Consent
 </tr>
 <tr>
 <td style="text-align:left;">
-PostConsentStatus
+Post Consent
 </td>
 <td style="text-align:right;">
 45
@@ -551,7 +551,7 @@ Survey 1
 32
 </td>
 <td style="text-align:right;">
-1
+0
 </td>
 <td style="text-align:right;">
 0
@@ -563,7 +563,7 @@ Survey 1
 11
 </td>
 <td style="text-align:right;">
-1
+2
 </td>
 </tr>
 <tr>
@@ -574,7 +574,7 @@ Survey 2
 33
 </td>
 <td style="text-align:right;">
-4
+1
 </td>
 <td style="text-align:right;">
 0
@@ -586,7 +586,7 @@ Survey 2
 0
 </td>
 <td style="text-align:right;">
-10
+13
 </td>
 </tr>
 <tr>
@@ -597,7 +597,7 @@ PDR2
 29
 </td>
 <td style="text-align:right;">
-4
+2
 </td>
 <td style="text-align:right;">
 0
@@ -609,7 +609,7 @@ PDR2
 4
 </td>
 <td style="text-align:right;">
-10
+12
 </td>
 </tr>
 <tr>
@@ -620,7 +620,7 @@ PDR3
 26
 </td>
 <td style="text-align:right;">
-6
+5
 </td>
 <td style="text-align:right;">
 0
@@ -632,7 +632,7 @@ PDR3
 3
 </td>
 <td style="text-align:right;">
-12
+13
 </td>
 </tr>
 <tr>
@@ -643,7 +643,7 @@ LENA D1 Diary
 3
 </td>
 <td style="text-align:right;">
-8
+2
 </td>
 <td style="text-align:right;">
 0
@@ -655,7 +655,7 @@ LENA D1 Diary
 10
 </td>
 <td style="text-align:right;">
-26
+32
 </td>
 </tr>
 <tr>
@@ -663,10 +663,10 @@ LENA D1 Diary
 LENA D1 Data
 </td>
 <td style="text-align:right;">
-17
+15
 </td>
 <td style="text-align:right;">
-10
+7
 </td>
 <td style="text-align:right;">
 0
@@ -678,7 +678,7 @@ LENA D1 Data
 3
 </td>
 <td style="text-align:right;">
-17
+22
 </td>
 </tr>
 <tr>
@@ -689,7 +689,7 @@ LENA D2 Diary
 3
 </td>
 <td style="text-align:right;">
-8
+2
 </td>
 <td style="text-align:right;">
 0
@@ -698,10 +698,10 @@ LENA D2 Diary
 0
 </td>
 <td style="text-align:right;">
-23
+22
 </td>
 <td style="text-align:right;">
-13
+20
 </td>
 </tr>
 <tr>
@@ -709,10 +709,10 @@ LENA D2 Diary
 LENA D2 Data
 </td>
 <td style="text-align:right;">
-17
+20
 </td>
 <td style="text-align:right;">
-10
+0
 </td>
 <td style="text-align:right;">
 0
@@ -724,7 +724,7 @@ LENA D2 Data
 4
 </td>
 <td style="text-align:right;">
-16
+23
 </td>
 </tr>
 <tr>
@@ -735,7 +735,7 @@ Survey 3
 15
 </td>
 <td style="text-align:right;">
-10
+0
 </td>
 <td style="text-align:right;">
 0
@@ -747,7 +747,7 @@ Survey 3
 1
 </td>
 <td style="text-align:right;">
-21
+31
 </td>
 </tr>
 <tr>
@@ -758,9 +758,6 @@ Survey 4
 15
 </td>
 <td style="text-align:right;">
-11
-</td>
-<td style="text-align:right;">
 0
 </td>
 <td style="text-align:right;">
@@ -770,7 +767,10 @@ Survey 4
 0
 </td>
 <td style="text-align:right;">
-21
+0
+</td>
+<td style="text-align:right;">
+32
 </td>
 </tr>
 <tr>
@@ -781,7 +781,7 @@ PDR5
 13
 </td>
 <td style="text-align:right;">
-11
+0
 </td>
 <td style="text-align:right;">
 0
@@ -793,7 +793,7 @@ PDR5
 2
 </td>
 <td style="text-align:right;">
-21
+32
 </td>
 </tr>
 <tr>
@@ -804,9 +804,6 @@ PDR6
 13
 </td>
 <td style="text-align:right;">
-11
-</td>
-<td style="text-align:right;">
 0
 </td>
 <td style="text-align:right;">
@@ -816,7 +813,10 @@ PDR6
 0
 </td>
 <td style="text-align:right;">
-23
+0
+</td>
+<td style="text-align:right;">
+34
 </td>
 </tr>
 <tr>
@@ -827,7 +827,7 @@ LENA D3 Diary
 1
 </td>
 <td style="text-align:right;">
-11
+0
 </td>
 <td style="text-align:right;">
 0
@@ -839,7 +839,7 @@ LENA D3 Diary
 12
 </td>
 <td style="text-align:right;">
-23
+34
 </td>
 </tr>
 <tr>
@@ -850,7 +850,7 @@ LENA D3 Data
 2
 </td>
 <td style="text-align:right;">
-11
+2
 </td>
 <td style="text-align:right;">
 0
@@ -862,7 +862,7 @@ LENA D3 Data
 1
 </td>
 <td style="text-align:right;">
-33
+42
 </td>
 </tr>
 <tr>
@@ -873,7 +873,7 @@ LENA D4 Diary
 1
 </td>
 <td style="text-align:right;">
-11
+2
 </td>
 <td style="text-align:right;">
 0
@@ -885,7 +885,7 @@ LENA D4 Diary
 1
 </td>
 <td style="text-align:right;">
-34
+43
 </td>
 </tr>
 <tr>
@@ -896,7 +896,7 @@ LENA D4 Data
 2
 </td>
 <td style="text-align:right;">
-12
+0
 </td>
 <td style="text-align:right;">
 0
@@ -908,7 +908,7 @@ LENA D4 Data
 4
 </td>
 <td style="text-align:right;">
-29
+41
 </td>
 </tr>
 </tbody>

diff --git a/_site/Consort.html b/_site/Consort.html
@@ -388,8 +388,8 @@ $(document).ready(function () {
 
 
 <p>DRAFT - Reworking value assignments/definitions</p>
-<div id="htmlwidget-30e4409849e39179307f" style="width:672px;height:480px;" class="grViz html-widget"></div>
-<script type="application/json" data-for="htmlwidget-30e4409849e39179307f">{"x":{"diagram":"digraph {\ngraph[rankdir=TD]\nnode[shape = rectangle, style = filled, fontsize = 20]\nsubgraph cluster_1 {\n  graph[shape = rectangle, fontsize = 28, face = \"bold\"]\n  style = rounded\n  bgcolor = Gold\n  \n  label = < <font> <b>Pre-Consent<\/b> <\/font> >\n  node[shape = rectangle, fillcolor = LemonChiffon, margin = 0.25]\n  A [label = \"Total in DK Log (n = 165)\"]\n  B [label = \"Total Interested (n = 92)\"]\n  C [label = \"Total Eligible (n = 66)\"]\n  D [label = \"Not Interested (n = 21)\", href=\"./Sources.html\"]\n  F [label = \"Total Not Eligible (n = 22)\"]\n  R [label = \"Not Determined (n = 52)\"]\n  S [label = \"Enrolled (n = 0)\"]\n  T [label = \"Eligible, But Not Enrolled (n = 66)\"]\n  U [label = \"Not Contacted Yet (n = 40)\"]\n  V [label = \"Unable to Reach (n = 12)\"]\n}\nsubgraph cluster_2 {\n  graph[shape = rectangle, fontsize = 28]\n  style = rounded\n  bgcolor = Tomato\n  \n  label = < <font> <b>Consented<\/b> <\/font> >\n  node[shape = rectangle, fillcolor = MistyRose, margin = 0.25 ]\n  L [label = \"Wave 1 Dropout (n = 5)\"]\n  K [label = \"Wave 1 Assessment Complete (n = 0)\"]\n  M [label = \"Intervention Complete (n = 8)\"]\n  N [label = \"Intervention Dropout (n = 0)\"]\n  O [label = \"Wave 2 Complete (n = 0)\"]\n  P [label = \"Wave 2 Dropout (n = 0)\"]\n  Q [label = \"Wave 3 Complete (n = 0)\"]\n}\nA->B; A->D;A->R;R->U;R->V;\nB->C; B->F;\nC->T;C->S;\nS->K;\nK->M; S->L;\nM->O;K->N;\nO->Q; M->P;\n}\n\n#Define Labels","config":{"engine":"dot","options":null}},"evals":[],"jsHooks":[]}</script>
+<div id="htmlwidget-e9489c4bd308ea22dc0f" style="width:672px;height:480px;" class="grViz html-widget"></div>
+<script type="application/json" data-for="htmlwidget-e9489c4bd308ea22dc0f">{"x":{"diagram":"digraph {\ngraph[rankdir=TD]\nnode[shape = rectangle, style = filled, fontsize = 20]\nsubgraph cluster_1 {\n  graph[shape = rectangle, fontsize = 28, face = \"bold\"]\n  style = rounded\n  bgcolor = Gold\n  \n  label = < <font> <b>Pre-Consent<\/b> <\/font> >\n  node[shape = rectangle, fillcolor = LemonChiffon, margin = 0.25]\n  A [label = \"Total in DK Log (n = 165)\"]\n  B [label = \"Total Interested (n = 92)\"]\n  C [label = \"Total Eligible (n = 66)\"]\n  D [label = \"Not Interested (n = 21)\", href=\"./Sources.html\"]\n  F [label = \"Total Not Eligible (n = 22)\"]\n  R [label = \"Not Determined (n = 52)\"]\n  S [label = \"Enrolled (n = 0)\"]\n  T [label = \"Eligible, But Not Enrolled (n = 66)\"]\n  U [label = \"Not Contacted Yet (n = 40)\"]\n  V [label = \"Unable to Reach (n = 12)\"]\n}\nsubgraph cluster_2 {\n  graph[shape = rectangle, fontsize = 28]\n  style = rounded\n  bgcolor = Tomato\n  \n  label = < <font> <b>Consented<\/b> <\/font> >\n  node[shape = rectangle, fillcolor = MistyRose, margin = 0.25 ]\n  L [label = \"Wave 1 Dropout (n = 5)\"]\n  K [label = \"Wave 1 Assessment Complete (n = 0)\"]\n  M [label = \"Intervention Complete (n = 8)\"]\n  N [label = \"Intervention Dropout (n = 0)\"]\n  O [label = \"Wave 2 Complete (n = 0)\"]\n  P [label = \"Wave 2 Dropout (n = 0)\"]\n  Q [label = \"Wave 3 Complete (n = 0)\"]\n}\nA->B; A->D;A->R;R->U;R->V;\nB->C; B->F;\nC->T;C->S;\nS->K;\nK->M; S->L;\nM->O;K->N;\nO->Q; M->P;\n}\n\n#Define Labels","config":{"engine":"dot","options":null}},"evals":[],"jsHooks":[]}</script>
 
 
 
